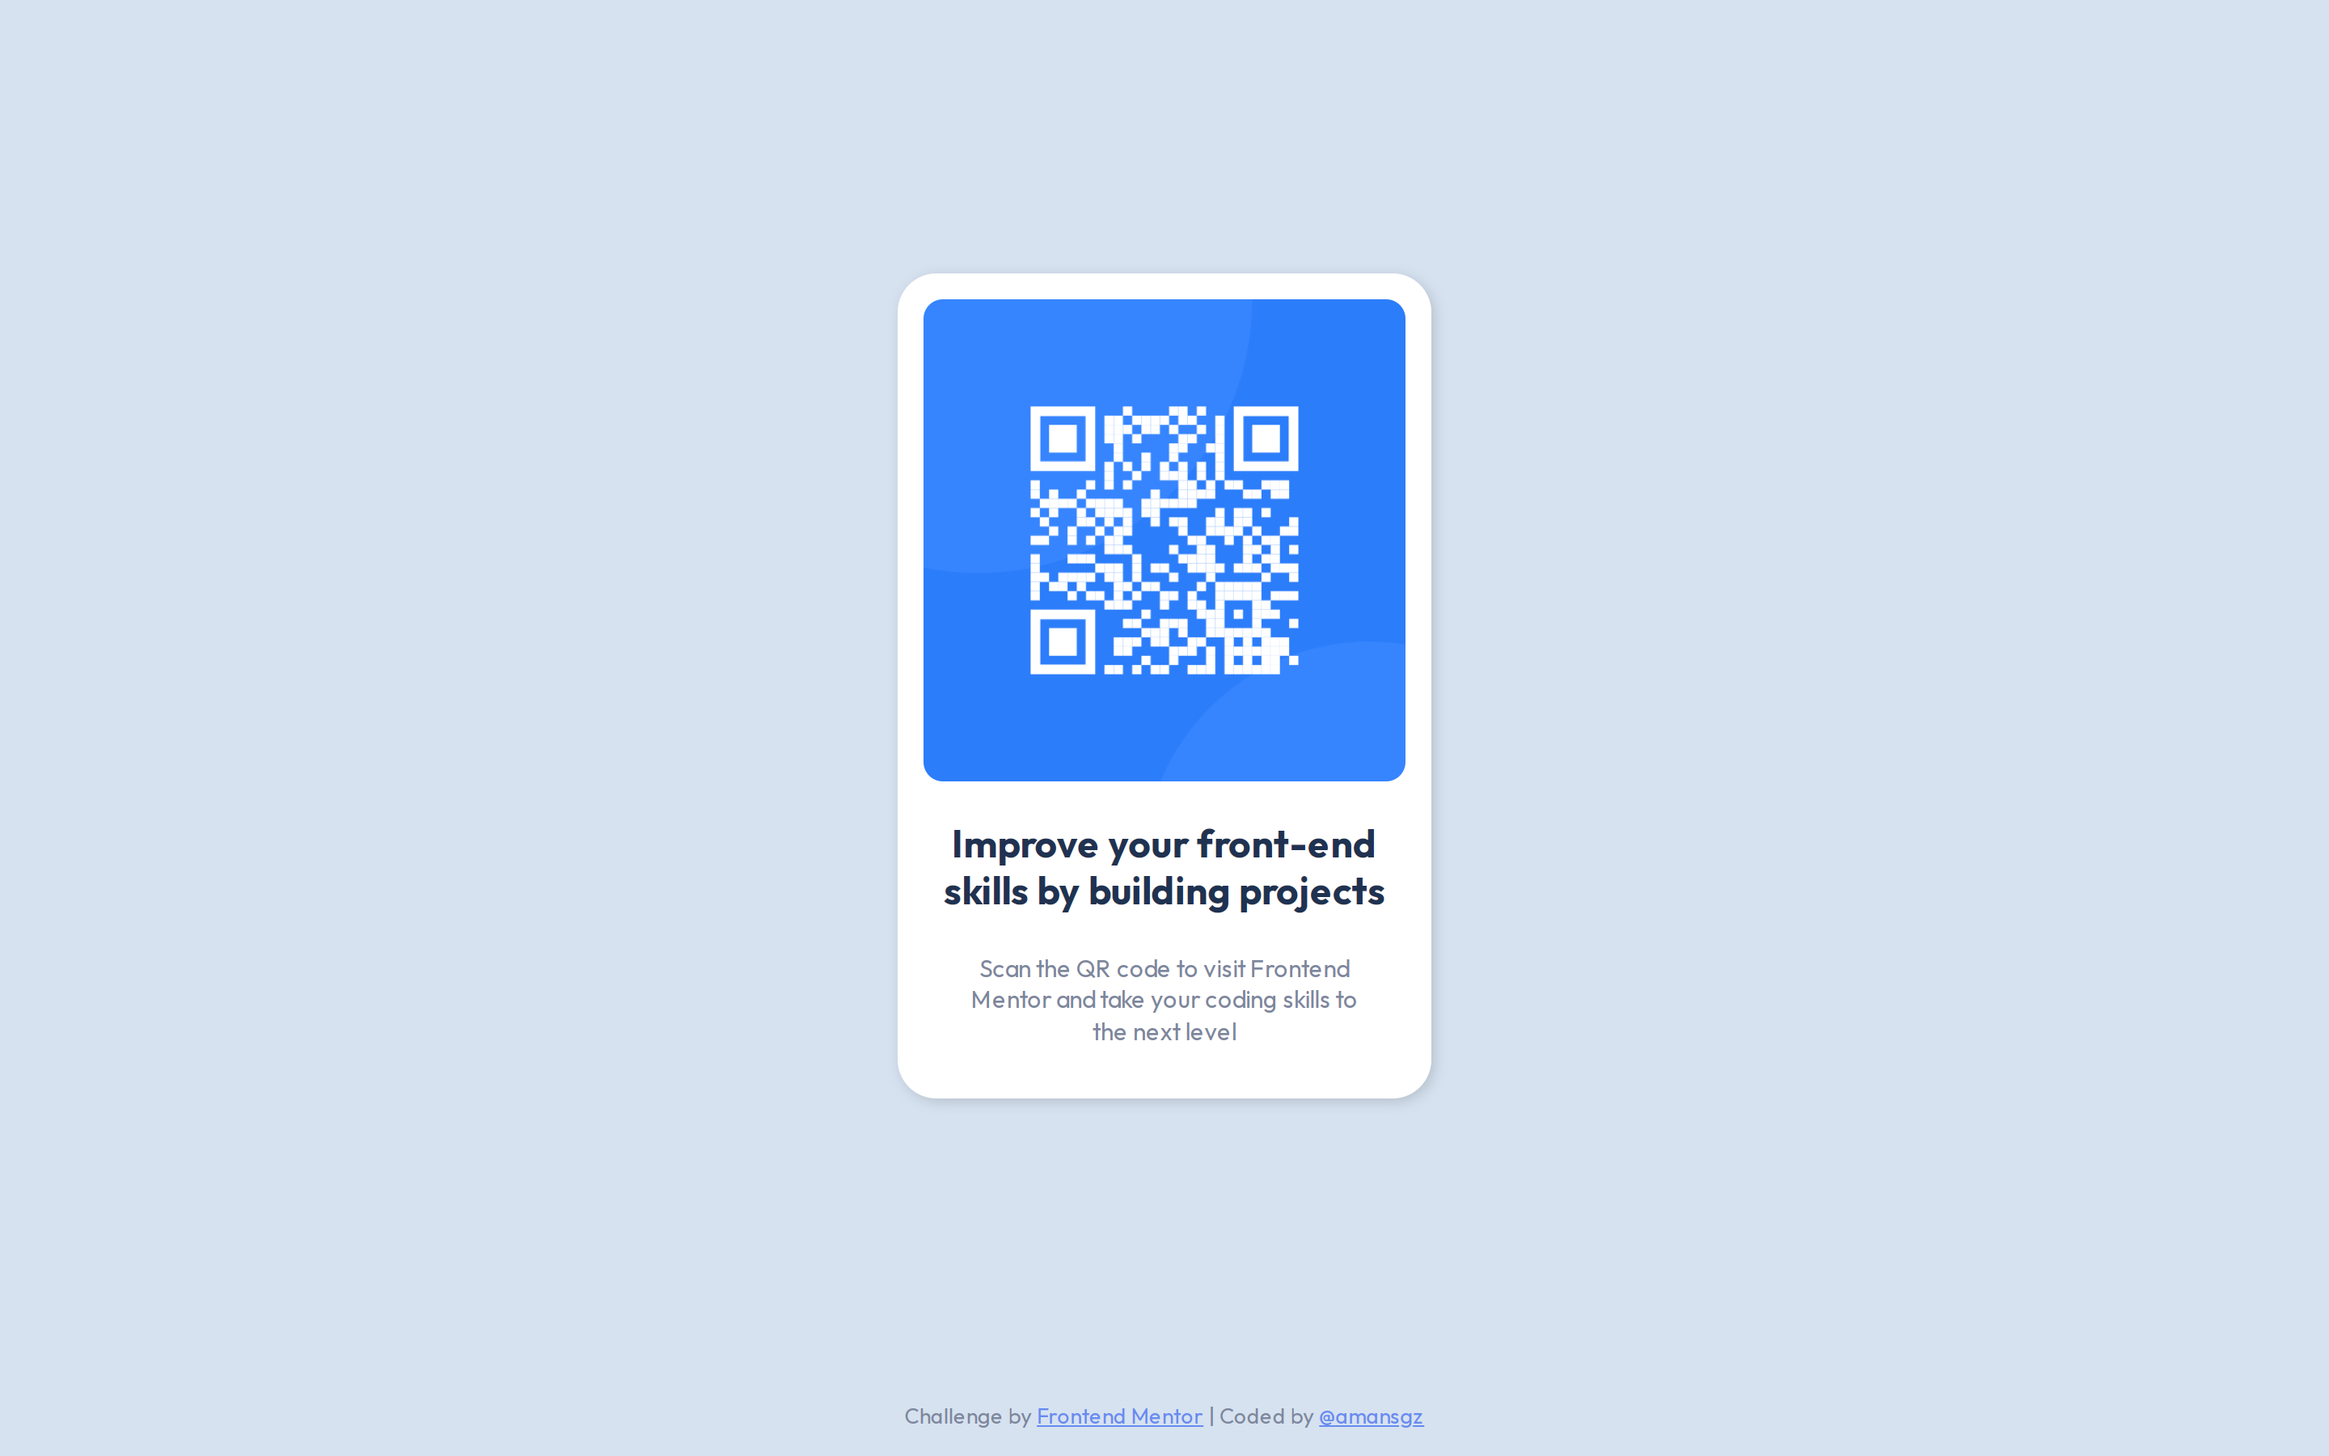
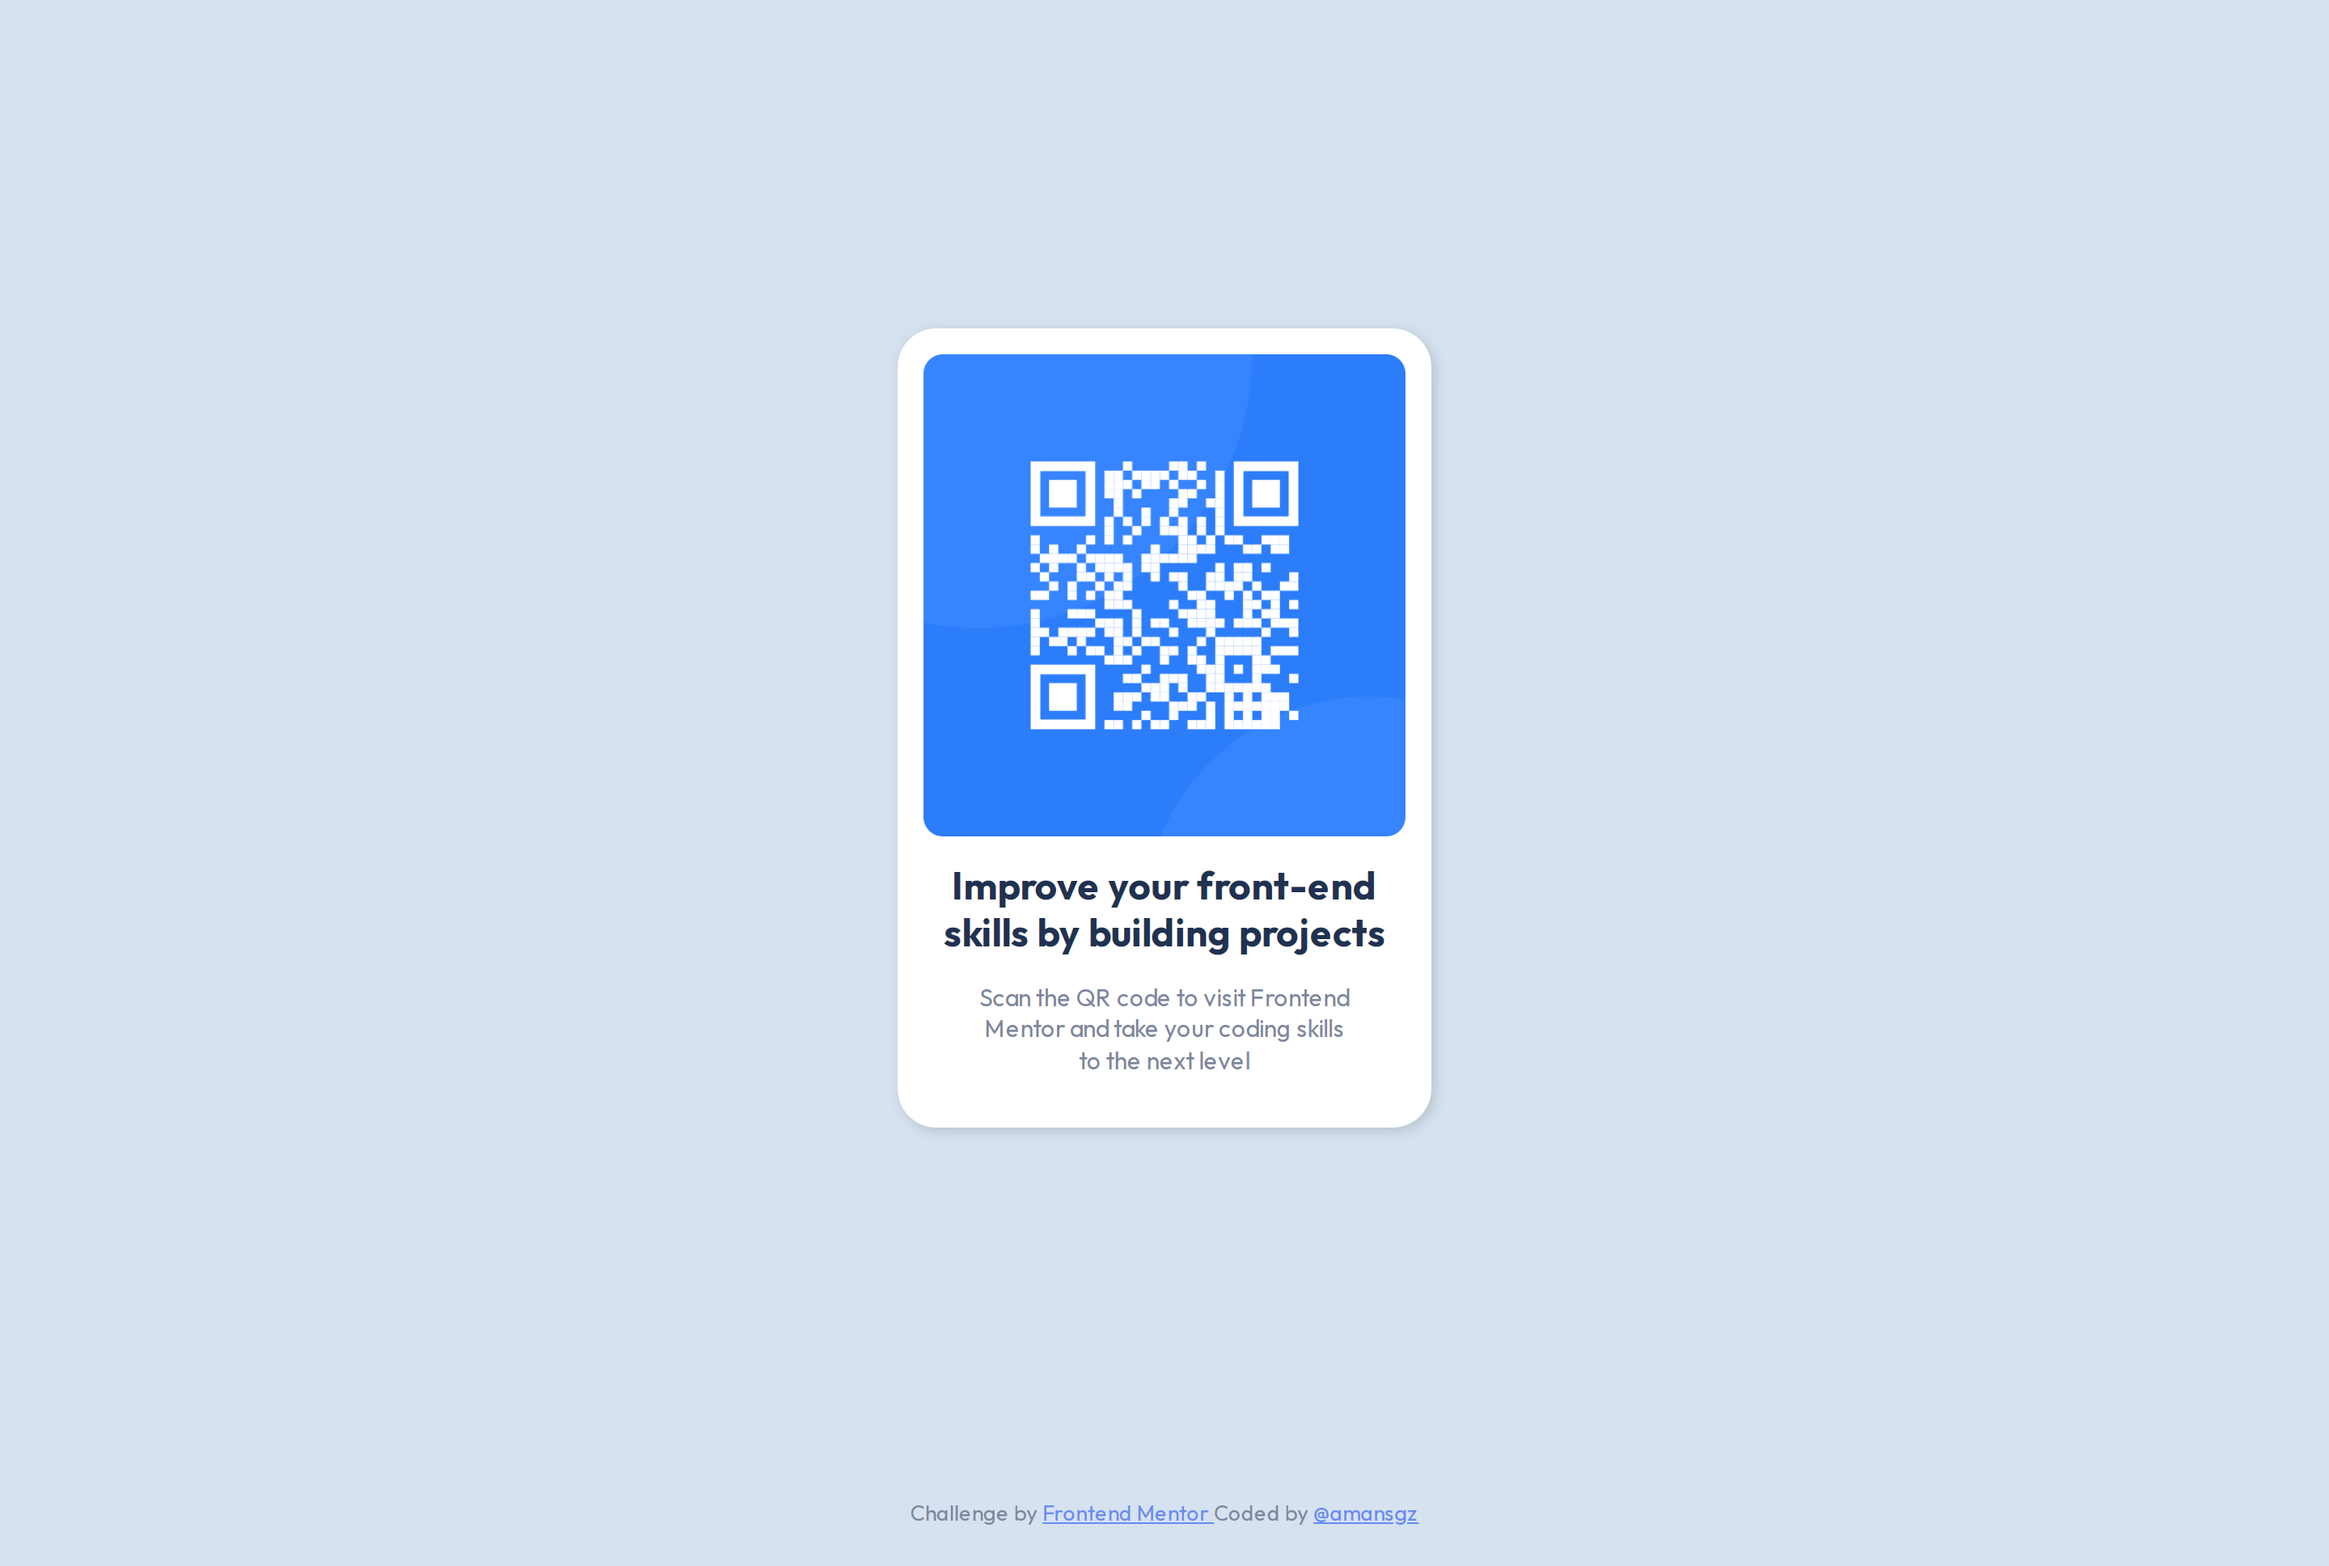
Update main styles. Update screenshot in readme file

diff --git a/styles/style.css b/styles/style.css
@@ -27,7 +27,7 @@ body {
 main {
   display: grid;
   place-content: center;
-  padding: 3em;
+  height: 100vh;
 }
 .card {
   display: flex;
